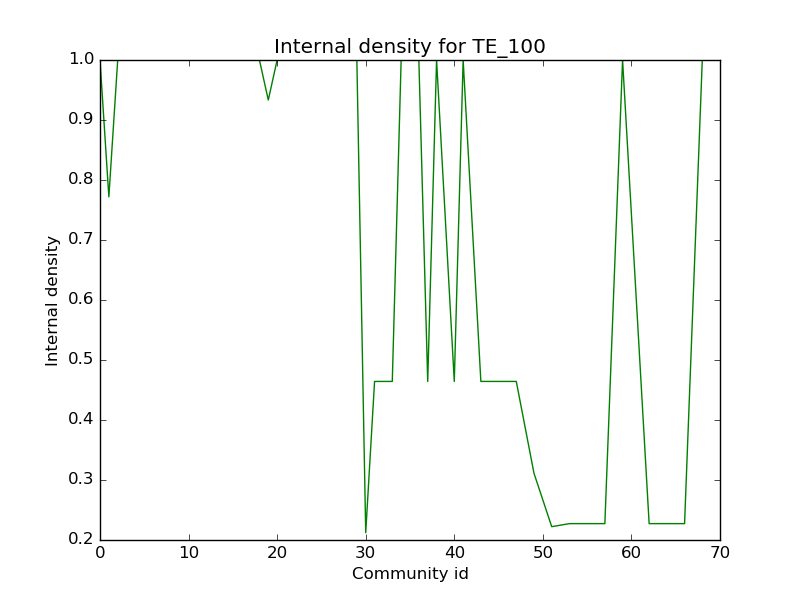
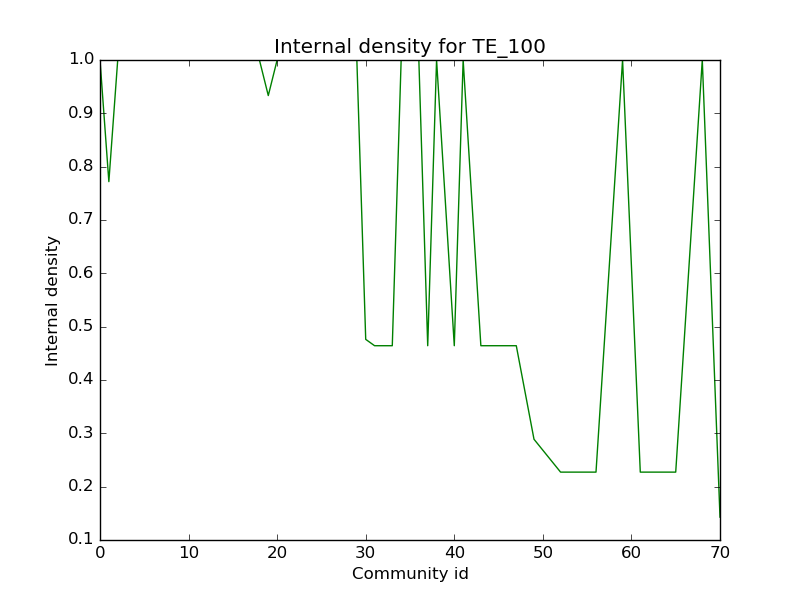
Modularity done right

diff --git a/expandCommunities.py b/expandCommunities.py
@@ -84,6 +84,8 @@ class ArxivAuthorsCommunityExpansion():
 		updatedPartitions = {}
 		isChange = True;
 
+		maxModularity = helperG.modularity(helperG.vs['partitionId'], weights = helperG.es['weight'])
+
 		while (isChange == True):
 
 			isChange = False
@@ -92,8 +94,6 @@ class ArxivAuthorsCommunityExpansion():
 			maxPartition2 = None
 
 			maxClusteringEdges = []
-
-			maxModularity = helperG.modularity(helperG.vs['partitionId'], weights = helperG.es['weight'])
 
 			for partitionId1 in list(legitPartitions):
 
@@ -121,7 +121,8 @@ class ArxivAuthorsCommunityExpansion():
 							maxPartition1 = partitionId1
 							maxPartition2 = partitionId2
 
-						helperG.delete_edges((helperG.vs[nodeId1]['name'], helperG.vs[nodeId2]['name']))
+						helperG.delete_edges([(helperG.vs[nodeId1]['name'], helperG.vs[nodeId2]['name'])])
+						
 						# UNmerge partitions
 						for nodeId in legitPartitions[partitionId2]:
 							helperG.vs[nodeId]['partitionId'] = partitionId2
@@ -130,6 +131,8 @@ class ArxivAuthorsCommunityExpansion():
 				print('MAX MOD = ', maxModularity)
 				isChange = True
 				clusteringEdges += maxClusteringEdges
+				for edge in maxClusteringEdges:
+					helperG.add_edge(edge[0], edge[1], weight = 1)
 				for nodeId in legitPartitions[maxPartition2]:
 					updatedPartitions[nodeId] = maxPartition1
 				legitPartitions[maxPartition1] += legitPartitions[maxPartition2]
